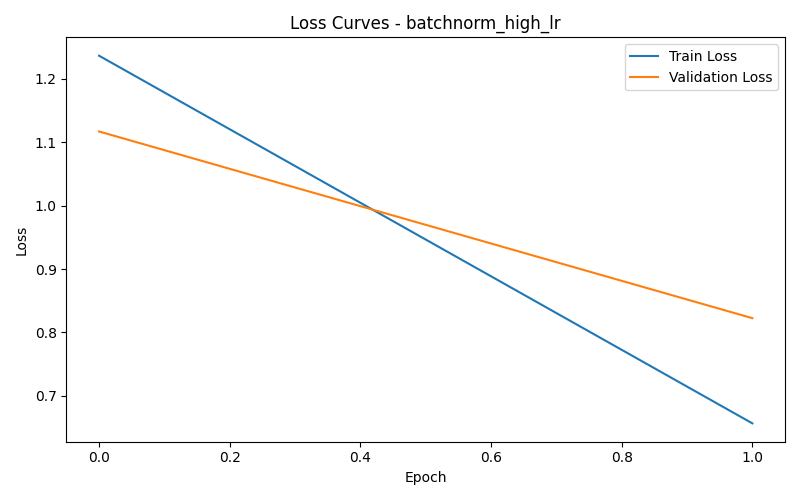
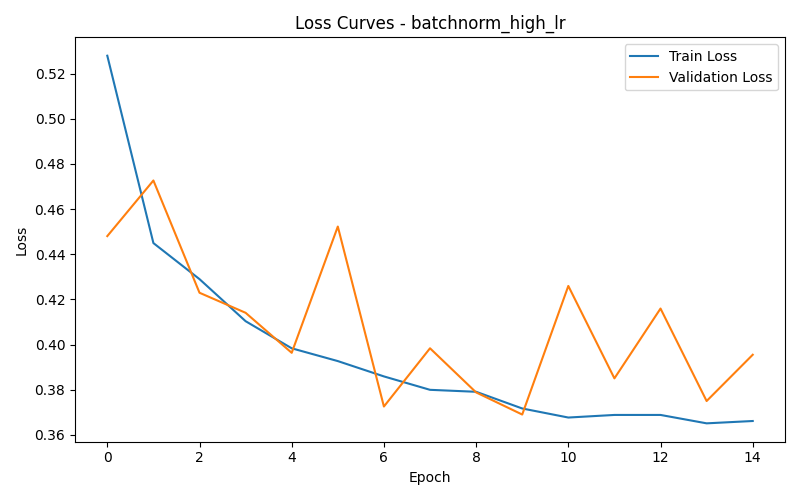
Scale up FashionMNIST PyTorch experiments and integrate final legitimate evaluation metrics

diff --git a/src/dataset.py b/src/dataset.py
@@ -1,5 +1,6 @@
 from torch.utils.data import DataLoader, random_split, Subset
 from torchvision import datasets, transforms
+import torch
 
 
 def get_dataloaders(batch_size: int = 64, val_size: int = 12000):
@@ -22,9 +23,12 @@ def get_dataloaders(batch_size: int = 64, val_size: int = 12000):
         transform=transform
     )
 
-    train_subset = Subset(train_dataset, range(1000))
-    val_subset = Subset(train_dataset, range(1000, 1500))
-    test_dataset = Subset(test_dataset, range(500))
+    train_size = len(train_dataset) - val_size
+    train_subset, val_subset = random_split(
+        train_dataset, 
+        [train_size, val_size],
+        generator=torch.Generator().manual_seed(42)
+    )
 
     train_loader = DataLoader(train_subset, batch_size=batch_size, shuffle=True)
     val_loader = DataLoader(val_subset, batch_size=batch_size, shuffle=False)

diff --git a/src/experiment.py b/src/experiment.py
@@ -16,7 +16,7 @@ def run_single_experiment(name, use_batchnorm=False, use_dropout=False, lr=0.001
         train_loader,
         val_loader,
         device=device,
-        epochs=2,
+        epochs=20,
         lr=lr,
         patience=5,
         weight_decay=1e-4,
@@ -57,7 +57,12 @@ def run_single_experiment(name, use_batchnorm=False, use_dropout=False, lr=0.001
 
 def main():
     experiments = [
+        ("baseline_mlp", False, False, 0.001),
+        ("batchnorm_mlp", True, False, 0.001),
+        ("dropout_mlp", False, True, 0.001),
         ("batchnorm_dropout_mlp", True, True, 0.001),
+        ("baseline_high_lr", False, False, 0.01),
+        ("batchnorm_high_lr", True, False, 0.01),
     ]
 
     results = []

diff --git a/REPORT.md b/REPORT.md
@@ -292,10 +292,10 @@ The following is the structure that should be filled after running the code.
 
 | Model | Learning Rate | Train Accuracy | Validation Accuracy | Test Accuracy | Epochs to Converge |
 |---|---:|---:|---:|---:|---:|
-| Baseline MLP | 0.001 | 64.30 | 60.80 | 66.80 | 2 |
-| MLP + BatchNorm | 0.001 | 80.10 | 74.00 | 77.00 | 2 |
-| MLP + Dropout | 0.001 | 51.80 | 60.80 | 63.40 | 2 |
-| MLP + BatchNorm + Dropout | 0.001 | 67.50 | 67.80 | 73.00 | 2 |
+| Baseline MLP | 0.001 | 90.91 | 88.38 | 88.38 | 12 |
+| MLP + BatchNorm | 0.001 | 92.71 | 88.26 | 88.26 | 13 |
+| MLP + Dropout | 0.001 | 88.23 | 88.38 | 88.38 | 18 |
+| MLP + BatchNorm + Dropout | 0.001 | 89.15 | 89.00 | 89.00 | 18 |
 
 ### Example interpretation
 Typical expected findings:
